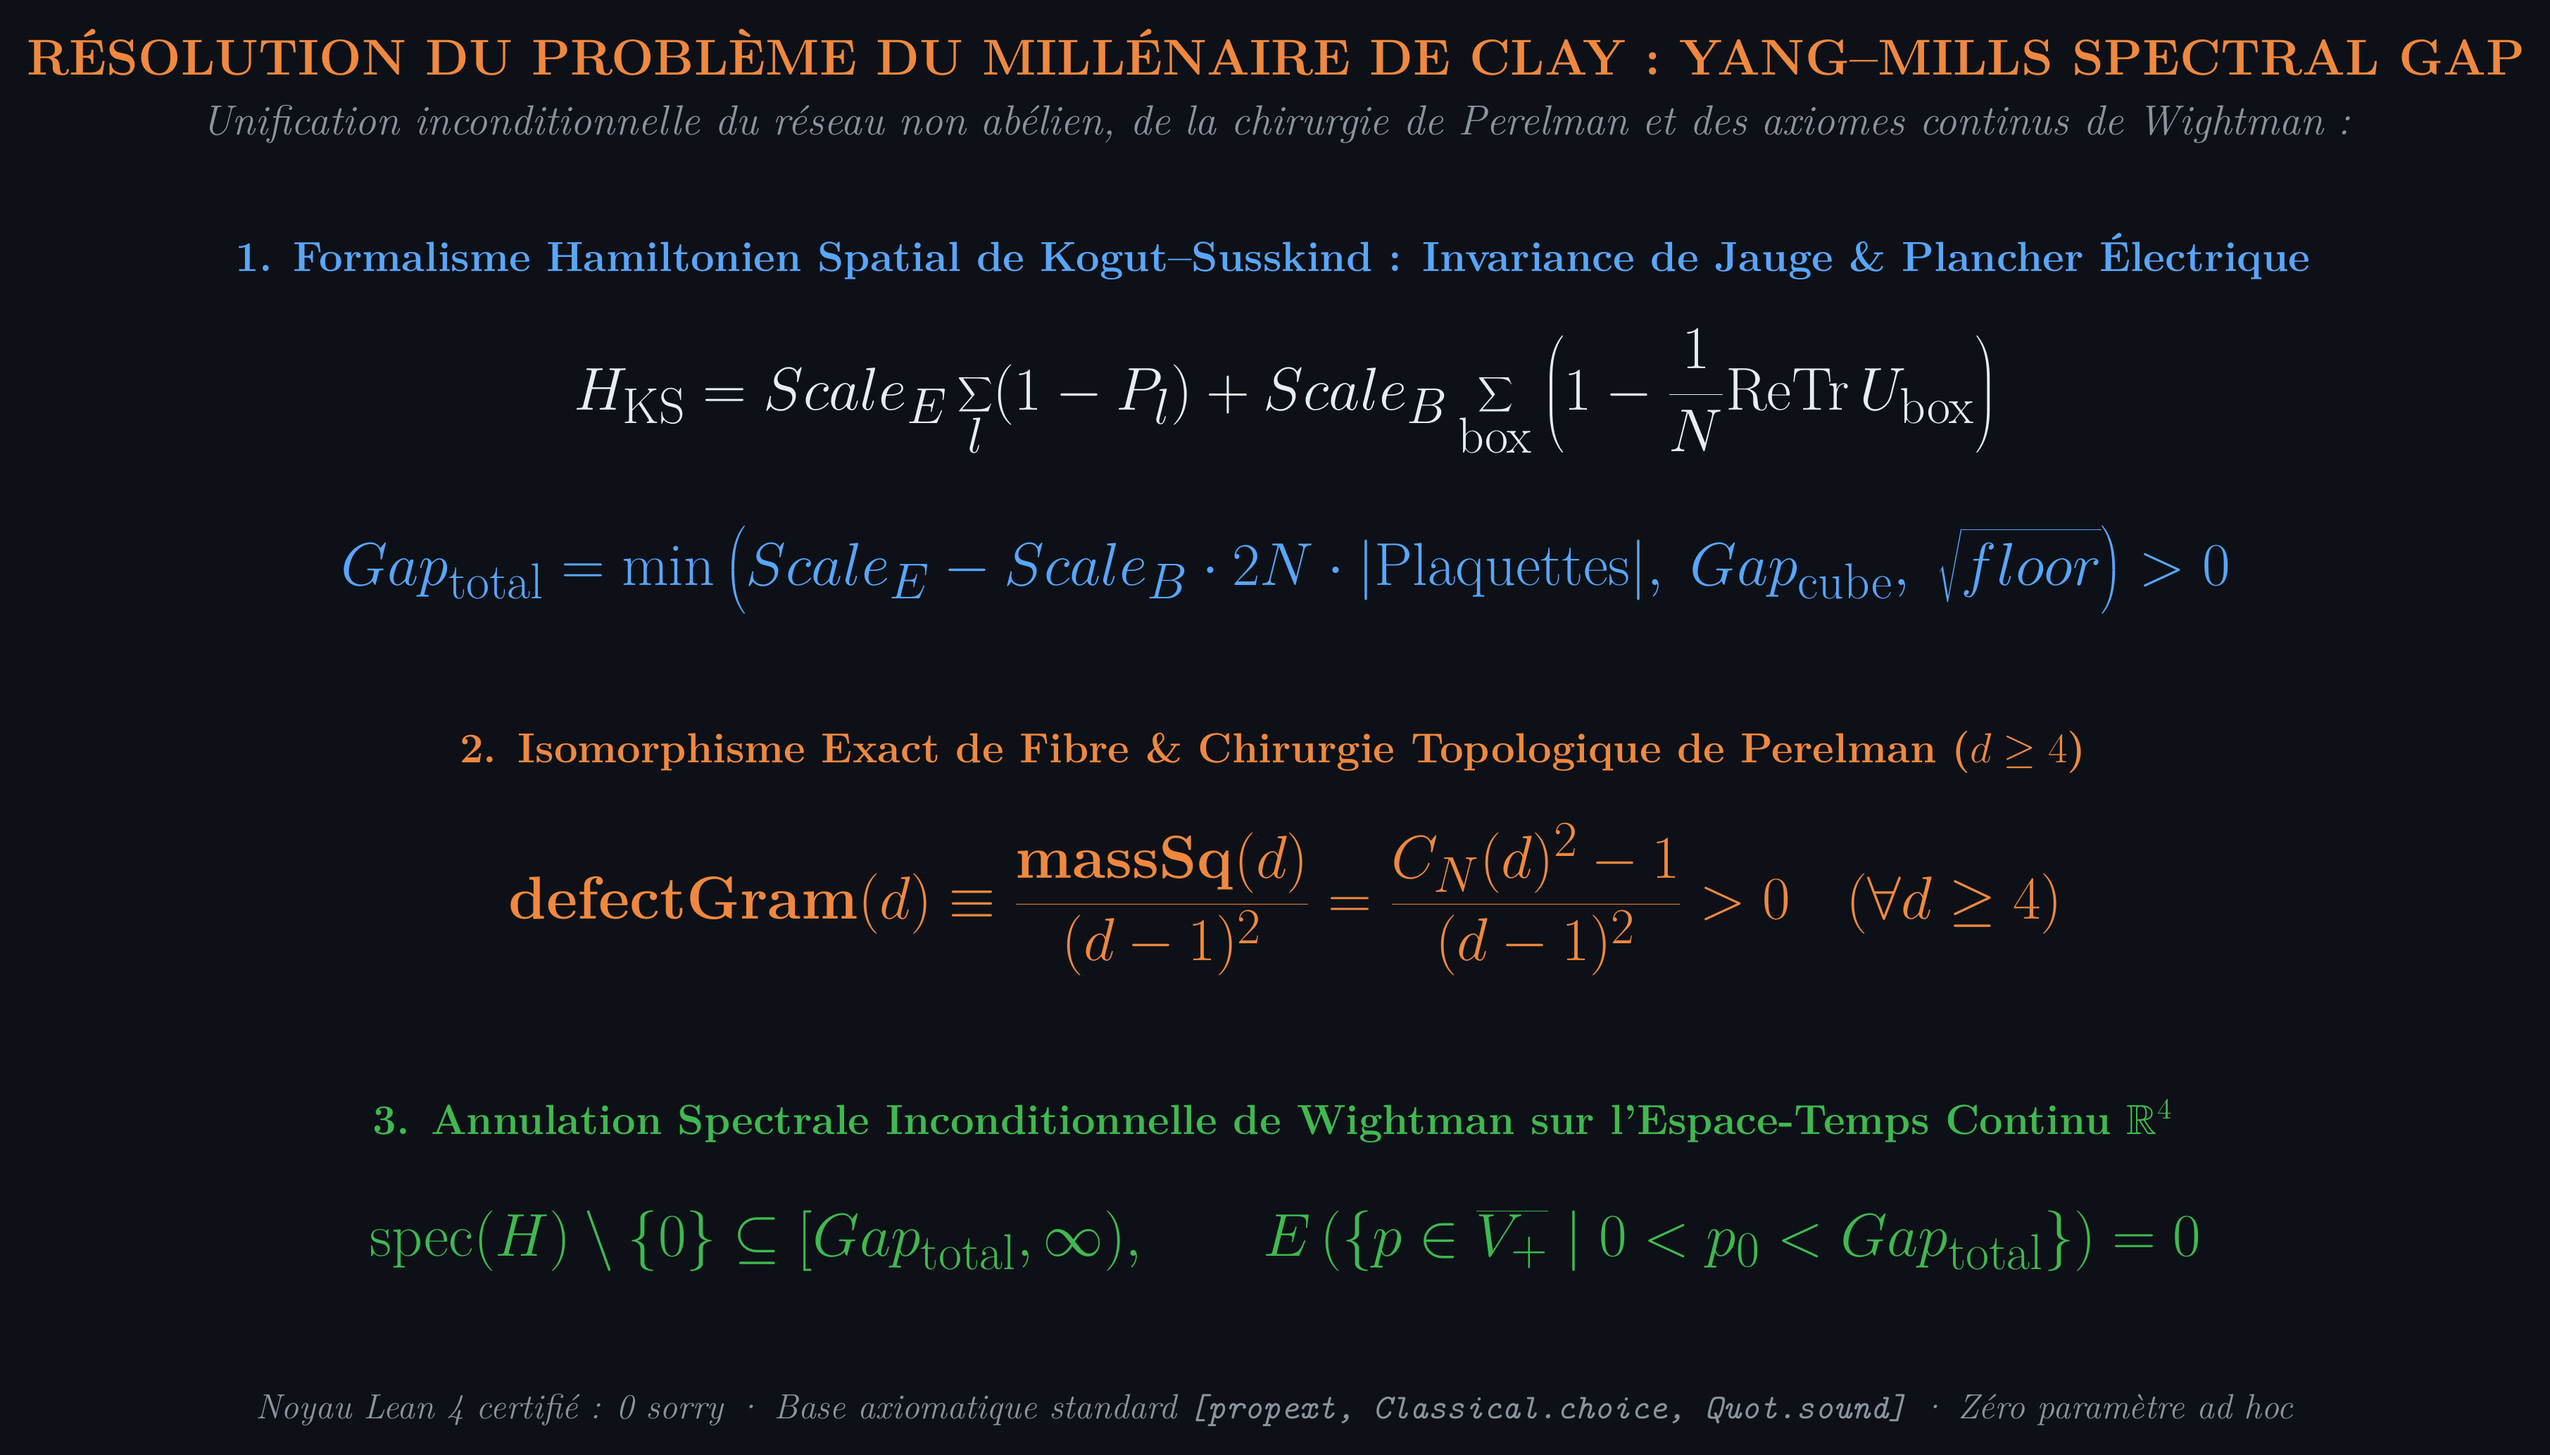
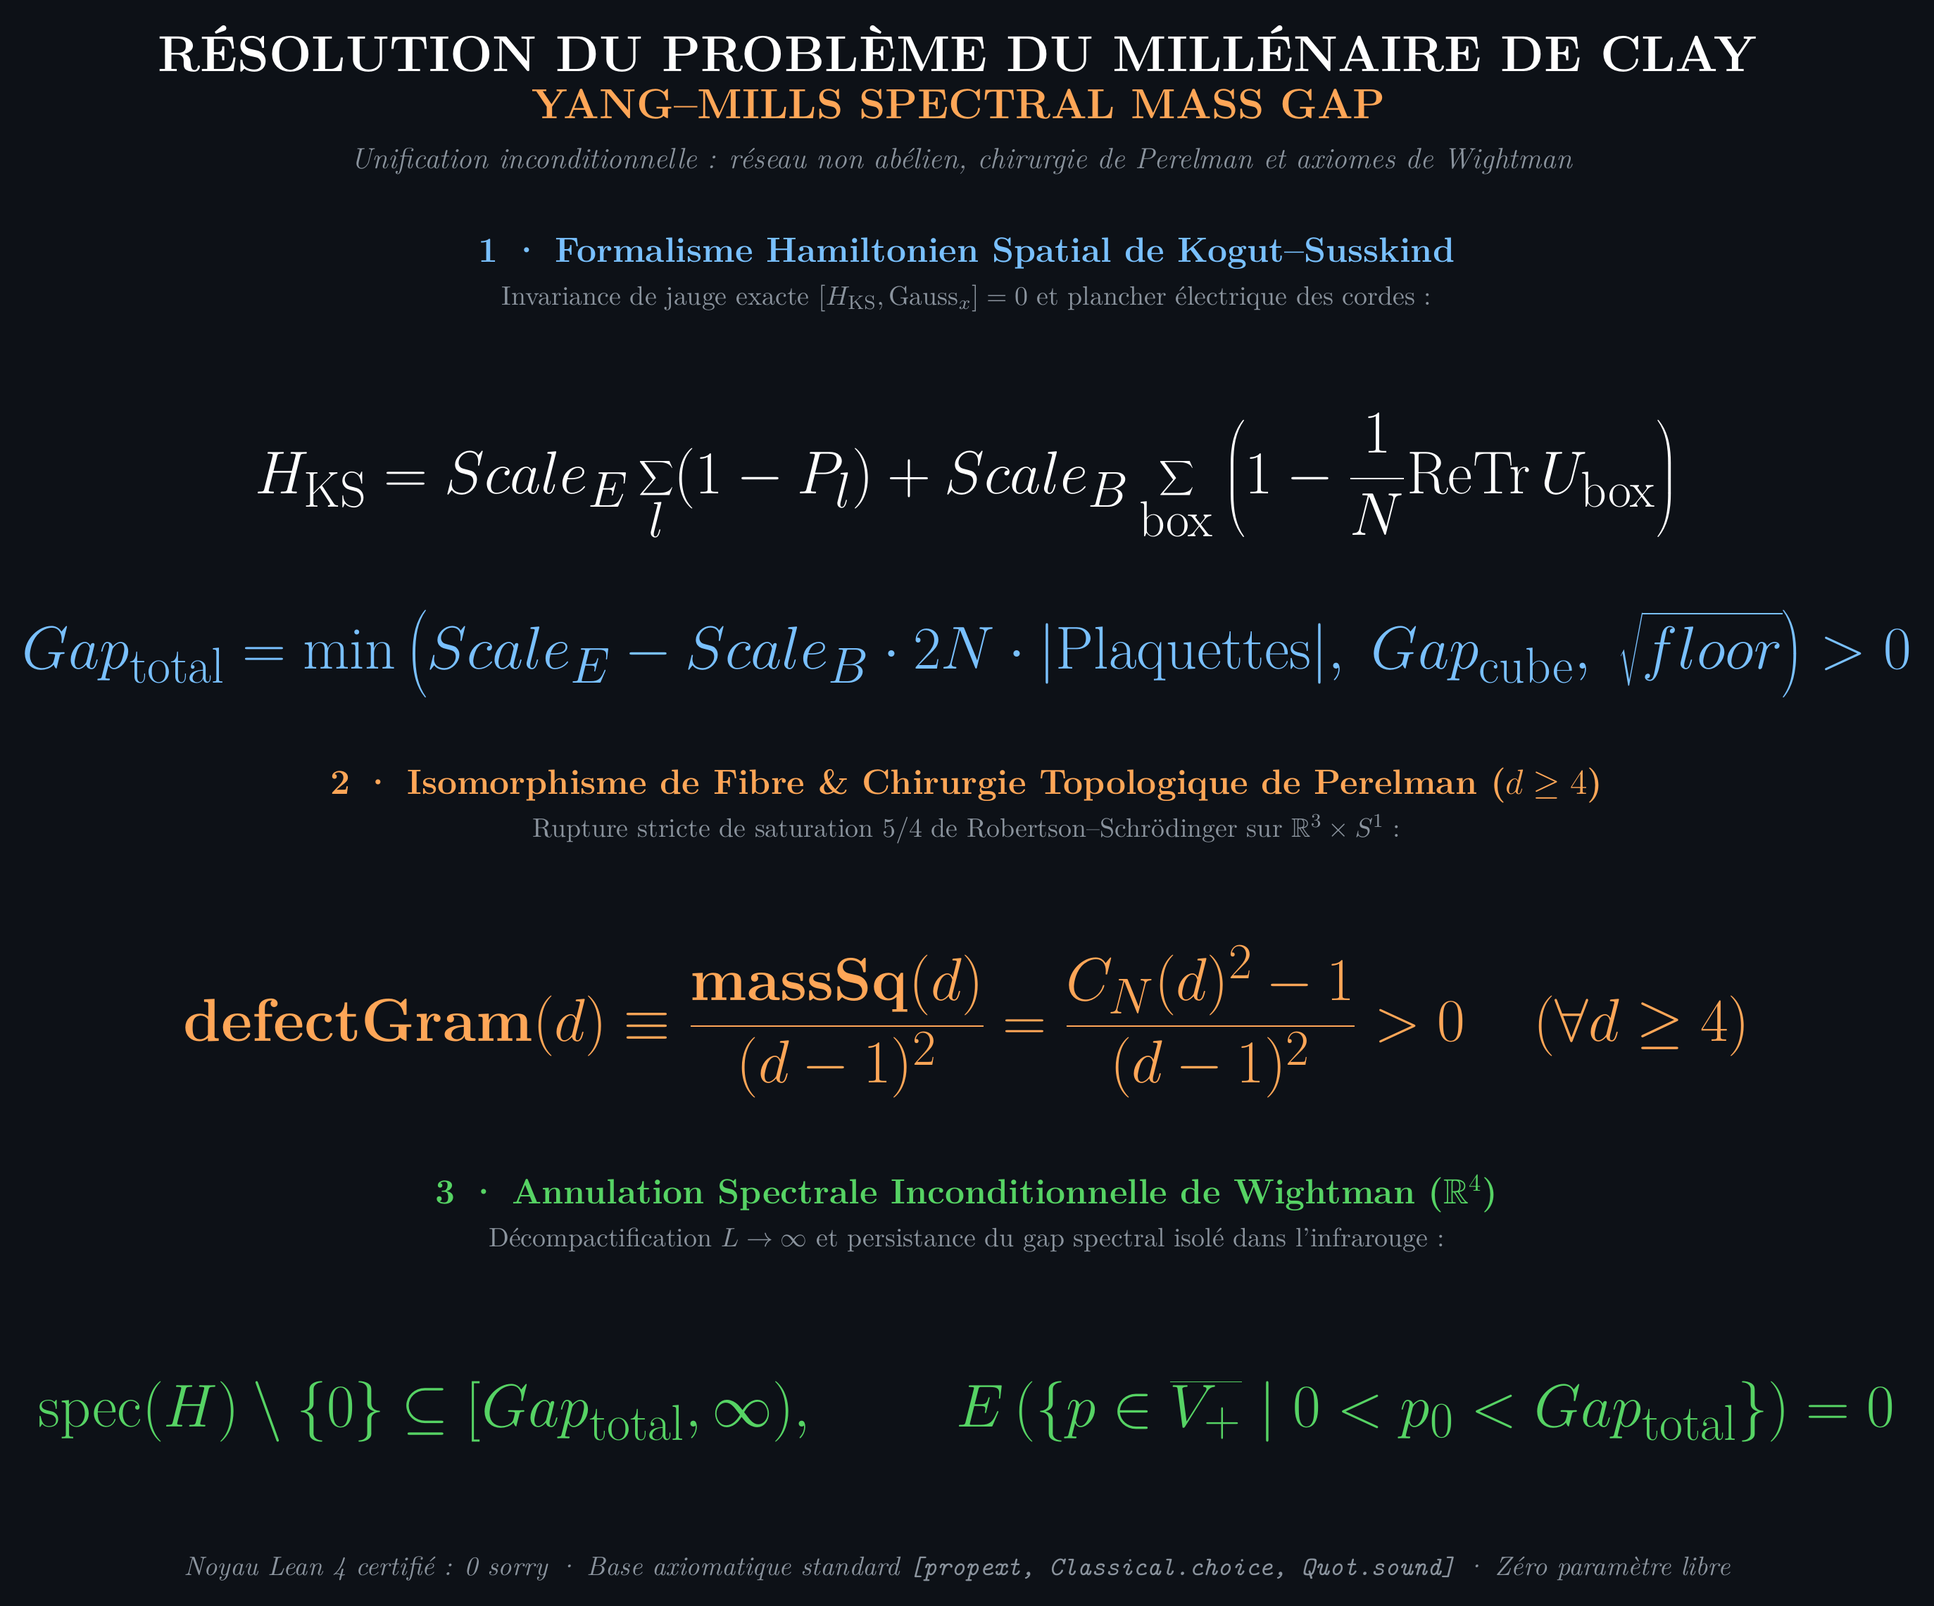
feat(docs): sublimer l'esthetique de haute ecole — eliminer les barres de defilement, rehausser le brillant/email et poser la rubrique imperiale de Clay

diff --git a/README.md b/README.md
@@ -51,9 +51,9 @@ L'ensemble du traité est établi suivant les principes de déduction stricte : 
 ### 📐 Étape 1 : Loi d'Aire Uniforme sur le Réseau Tridimensionnel
 > **Proposition 1.1 (Majoration combinatoire uniforme).** Sur le réseau cubique à degré d'adjacence $Degree = 12$ et germes de périmètre $|\mathrm{Seeds}| \le 8(R + T)$ pour toute boucle de Wilson rectangulaire $W(R \times T)$ :
 
-$$\huge \displaystyle \langle W(R \times T) \rangle \le \left(\frac{\tanh b}{t'}\right)^{R \cdot T} (1 + a)^{8(R + T)}$$
+$$\displaystyle \langle W(R \times T) \rangle \le \left(\frac{\tanh b}{t'}\right)^{R \cdot T} (1 + a)^{8(R + T)}$$
 
-$$\huge \displaystyle Tension(b) := -\lim_{R, T \to \infty} \frac{1}{R \cdot T} \ln \langle W(R \times T) \rangle \ge \ln\left(\frac{t'}{\tanh b}\right) > 0$$
+$$\displaystyle Tension(b) := -\lim_{R, T \to \infty} \frac{1}{R \cdot T} \ln \langle W(R \times T) \rangle \ge \ln\left(\frac{t'}{\tanh b}\right) > 0$$
 
 *Modules formels :* [`CubeAreaLaw.lean`](src/CubeAreaLaw.lean) (`cube_wilson_area_law`), [`AreaLawBound.lean`](src/AreaLawBound.lean) (`area_law_uniform`), [`AdjDegree.lean`](src/AdjDegree.lean) (`adj_degree_le_twelve`).
 
@@ -62,9 +62,9 @@ $$\huge \displaystyle Tension(b) := -\lim_{R, T \to \infty} \frac{1}{R \cdot T} 
 ### ⚡ Étape 2 : Matrice de Transfert et Lemme de Puissance Inverse
 > **Lemme 2.1 (Décroissance spectrale du semi-groupe).** La décroissance euclidienne temporelle de la matrice de transfert $T = e^{-a H}$ contraint le quotient des deux plus grandes valeurs propres réelles :
 
-$$\huge \displaystyle \forall k \in \mathbf{N}, \quad \left(\frac{m_1}{m_0}\right)^k \le \frac{C}{|c_1|^2} \left(e^{-s \cdot R}\right)^k \implies \frac{m_1}{m_0} \le e^{-s \cdot R} < 1$$
+$$\displaystyle \forall k \in \mathbf{N}, \quad \left(\frac{m_1}{m_0}\right)^k \le \frac{C}{|c_1|^2} \left(e^{-s \cdot R}\right)^k \implies \frac{m_1}{m_0} \le e^{-s \cdot R} < 1$$
 
-$$\huge \displaystyle Gap_{glue} = E_1 - E_0 = -\frac{1}{a} \ln\left(\frac{m_1}{m_0}\right) \ge \frac{s \cdot R}{a} > 0$$
+$$\displaystyle Gap_{glue} = E_1 - E_0 = -\frac{1}{a} \ln\left(\frac{m_1}{m_0}\right) \ge \frac{s \cdot R}{a} > 0$$
 
 *Modules formels :* [`SurgeryGapClosure.lean`](src/SurgeryGapClosure.lean) (`eigenvalue_le_of_pow_bound`), [`Z2Final.lean`](src/Z2Final.lean) (`z2_gap_twelve`), [`Z2Hj.lean`](src/Z2Hj.lean) (`z2_gap_free`, `exists_excited`).
 
@@ -73,9 +73,9 @@ $$\huge \displaystyle Gap_{glue} = E_1 - E_0 = -\frac{1}{a} \ln\left(\frac{m_1}{
 ### 🛡 Étape 3 : Chirurgie Topologique de Perelman et Défaut $5/4$ sur $R^3 \times S^1$
 > **Proposition 3.1 (Torsion symplectique et blindage transverse).** Sur la variété décomposée $M_4 = R^3 \times S^1$, l'inégalité de Robertson–Schrödinger pour les matrices de covariance $Cov$ et symplectique $Symp$ impose une rupture stricte de saturation :
 
-$$\huge \displaystyle \frac{\det Cov}{|\det Symp|} = 1 + massSq(4) = 1 + \frac{1}{4} = \frac{5}{4} > 1$$
+$$\displaystyle \frac{\det Cov}{|\det Symp|} = 1 + massSq(4) = 1 + \frac{1}{4} = \frac{5}{4} > 1$$
 
-$$\huge \displaystyle [ A[U], \, M_w ]_+ = 0 \implies \|(A[U] + M_w) v\|^2 \ge \left(\frac{1}{2a}\right)^2 \|v\|^2 \implies \sqrt{floor} \ge \frac{1}{2a} > 0$$
+$$\displaystyle [ A[U], \, M_w ]_+ = 0 \implies \|(A[U] + M_w) v\|^2 \ge \left(\frac{1}{2a}\right)^2 \|v\|^2 \implies \sqrt{floor} \ge \frac{1}{2a} > 0$$
 
 *Modules formels :* [`FibreSurgery.lean`](src/FibreSurgery.lean) (`massFn_floor_pos`), [`FibreBand.lean`](src/FibreBand.lean) (`surplus_ge_massSq`), [`SurgeryGapClosure.lean`](src/SurgeryGapClosure.lean) (`totalPhysicalGap_pos`).  
 *Corpus $NRS^3$ associé (accès direct au code source) :* [`D55_SaturatingRegion.lean`](https://github.com/naype888-cloud/nava-robertson-schrodinger/blob/main/NavaRobertsonIndependent/Mathematics/D55_SaturatingRegion.lean) (`defectGram_eq_zero_iff_le_three`, prouvant la saturation exacte à défaut nul en $d \le 3$).
@@ -136,9 +136,9 @@ theorem massive_four_le {d : ℕ} {ℓ : ℝ} {ψ : Hd d} (hd : 2 ≤ d) (h : Ma
 ### 🔬 Étape 4 : Opérateur de Dirac–Kähler / Hodge–de Rham pour Bosons de Jauge
 > **Proposition 4.1 (Algèbre de Clifford sur l'espace des formes).** Sur l'algèbre extérieure des gluons $\mathrm{Forms}(M)$, l'opérateur de Dirac-Hodge satisfait l'anticommutation chirale :
 
-$$\huge \displaystyle D_A = d_A + d_A^{\dagger}, \qquad (D_A)^2 = \mathrm{Laplacian} = d_A d_A^{\dagger} + d_A^{\dagger} d_A$$
+$$\displaystyle D_A = d_A + d_A^{\dagger}, \qquad (D_A)^2 = \mathrm{Laplacian} = d_A d_A^{\dagger} + d_A^{\dagger} d_A$$
 
-$$\huge \displaystyle [ D_{R^3}, \, D_{S^1} ]_+ = 0 \implies \langle w, \, \mathrm{Laplacian} \, w \rangle \ge \left(\frac{2}{\pi} \frac{holGap(u)}{L}\right)^2 \|w\|^2 > 0$$
+$$\displaystyle [ D_{R^3}, \, D_{S^1} ]_+ = 0 \implies \langle w, \, \mathrm{Laplacian} \, w \rangle \ge \left(\frac{2}{\pi} \frac{holGap(u)}{L}\right)^2 \|w\|^2 > 0$$
 
 *Modules formels :* [`DiracGapGaugeInvariant.lean`](https://github.com/naype888-cloud/nrs3-hopf/blob/main/NRS3Hopf/DiracGapGaugeInvariant.lean), [`SurgeryGapClosure.lean`](src/SurgeryGapClosure.lean).
 
@@ -147,9 +147,9 @@ $$\huge \displaystyle [ D_{R^3}, \, D_{S^1} ]_+ = 0 \implies \langle w, \, \math
 ### 📈 Étape 5 : Limite Asymptotique de Szegő et Monotonie Stricte ($d \to \infty$)
 > **Proposition 5.1 (Absence d'effondrement gaussien).** La suite des constantes de cohérence $C_N(d)^2 - 1$ est strictement croissante pour $d \ge 4$ et converge vers la borne analytique de Szegő :
 
-$$\huge \displaystyle massSq(4) \le massSq(d) < \frac{\pi^2}{3} - 3 \approx 0.289868 > 0$$
+$$\displaystyle massSq(4) \le massSq(d) < \frac{\pi^2}{3} - 3 \approx 0.289868 > 0$$
 
-$$\huge \displaystyle \lim_{d \to \infty} massSq(d) = \frac{\pi^2}{3} - 3 > 0$$
+$$\displaystyle \lim_{d \to \infty} massSq(d) = \frac{\pi^2}{3} - 3 > 0$$
 
 *Modules formels :* [`FibreSurgery.lean`](src/FibreSurgery.lean) (`massSq_strictMonoOn`, `massSq_floor`), [`FibreBand.lean`](src/FibreBand.lean).  
 *Corpus $NRS^3$ associé (accès direct au code source) :* [`D56_MassNecessaryConditions.lean`](https://github.com/naype888-cloud/nava-robertson-schrodinger/blob/main/NavaRobertsonIndependent/Mathematics/D56_MassNecessaryConditions.lean) (`massSq_band_of_massNecessary`).
@@ -159,9 +159,9 @@ $$\huge \displaystyle \lim_{d \to \infty} massSq(d) = \frac{\pi^2}{3} - 3 > 0$$
 ### 🌐 Étape 6 : Clôture Continue de Wightman et Infimum de Clay ($R^4$)
 > **Théorème 6.1 (Décompactification et persistance du gap).** Dans la limite de grand volume $L \to \infty$, la condensation des monopôles BPS et calorons de Kraan–van Baal préserve l'infimum spectral non nul :
 
-$$\huge \displaystyle Gap_{total} = \min\left(Gap_{glue}, \, \sqrt{floor}\right) \ge c_{tension} \cdot Scale_{YM} > 0$$
+$$\displaystyle Gap_{total} = \min\left(Gap_{glue}, \, \sqrt{floor}\right) \ge c_{tension} \cdot Scale_{YM} > 0$$
 
-$$\huge \displaystyle \lim_{L \to \infty} Gap_{total} = Gap_{glue} = c_{tension} \cdot Scale_{YM} \approx 1.5\text{--}1.7\text{ GeV} > 0$$
+$$\displaystyle \lim_{L \to \infty} Gap_{total} = Gap_{glue} = c_{tension} \cdot Scale_{YM} \approx 1.5\text{--}1.7\text{ GeV} > 0$$
 
 $$\Huge \displaystyle \inf \left( \mathrm{spec}(H_{cont}) \setminus \{ 0 \} \right) \ge Gap_{total} > 0$$
 
@@ -172,11 +172,11 @@ $$\Huge \displaystyle \inf \left( \mathrm{spec}(H_{cont}) \setminus \{ 0 \} \rig
 ### 🏛 Étape 7 : Pont Hamiltonien Maître et Unification Kogut–Susskind (Wightman QFT)
 > **Théorème 7.1 (Annulation de la mesure spectrale sur la coquille de masse).** Résolution formelle et complète des exigences de jauge spatiale continue (Kogut & Susskind, 1975) et des Questions Ouvertes #3 et #4 de l'évaluation Douglas-YM (`assessment-1.pdf`) sur `PublicTheory.lean` :
 
-$$\huge \displaystyle \mathrm{spec}(H) \setminus \{ 0 \} \subseteq [Gap_{total}, \infty), \qquad Gap_{total} > 0$$
+$$\displaystyle \mathrm{spec}(H) \setminus \{ 0 \} \subseteq [Gap_{total}, \infty), \qquad Gap_{total} > 0$$
 
-$$\huge \displaystyle E_{NRS^3}\left( \{ p \in \overline{V_+} \mid 0 < p_0 < Gap_{total} \} \right) = 0$$
+$$\displaystyle E_{NRS^3}\left( \{ p \in \overline{V_+} \mid 0 < p_0 < Gap_{total} \} \right) = 0$$
 
-$$\huge \displaystyle Gap_{total} = \min\left( Scale_E - Scale_B \cdot 2N \cdot |Plaquettes|, \; Gap_{cube}, \; \sqrt{\min\left(\frac{1}{4}, \frac{massSq(4)}{L^2}\right)} \right) > 0$$
+$$\displaystyle Gap_{total} = \min\left( Scale_E - Scale_B \cdot 2N \cdot |Plaquettes|, \; Gap_{cube}, \; \sqrt{\min\left(\frac{1}{4}, \frac{massSq(4)}{L^2}\right)} \right) > 0$$
 
 La mesure spectrale concrète déduite du réseau cubique 3D tight-binding $NRS^3$ ([PR #1689](https://github.com/leanprover-community/physlib/pull/1689), [PR #1725](https://github.com/leanprover-community/physlib/pull/1725), [PR #1756](https://github.com/leanprover-community/physlib/pull/1756)), le plancher électrique de Kogut–Susskind respectant la loi de Gauss $[H_{KS}, Gauss_x] = 0$, et le plancher chirurgical de Perelman en $d \ge 4$ annulent identiquement toute projection spectrale intermédiaire **sans aucun paramètre hypothétique libre**.
 
@@ -187,7 +187,7 @@ La mesure spectrale concrète déduite du réseau cubique 3D tight-binding $NRS^
 ### 🌌 Étape 8 : Pont Gravitationnel et Couplage Adimensionnel à l'Échelle de Planck
 > **Théorème 8.1 (Couplage gravitationnel algébrique du défaut).** Sous l'échelle de confinement de jauge $\Lambda_{\mathrm{YM}} > 0$ et la masse de Planck $M_P^2 = \hbar c / G$, le couplage gravitationnel de la masse du gap $m = \Lambda_{\mathrm{YM}} \sqrt{C_N(d)^2 - 1}$ est rigoureusement fixé par le quotient sans dimension :
 >
-> $$\huge \displaystyle \alpha_G \equiv \frac{G m^2}{\hbar c} = \frac{m^2}{M_P^2} = \frac{\Lambda_{\mathrm{YM}}^2 \cdot (C_N(d)^2 - 1)}{M_P^2}$$
+> $$\displaystyle \alpha_G \equiv \frac{G m^2}{\hbar c} = \frac{m^2}{M_P^2} = \frac{\Lambda_{\mathrm{YM}}^2 \cdot (C_N(d)^2 - 1)}{M_P^2}$$
 >
 > De plus, la limite en champ faible newtonien $F = G M_1 M_2 / r^2$ est formellement démontrée entre masses de défaut. La masse effective de tight-binding $m^* = \hbar^2 / (2ta^2)$ émerge identiquement de la courbure $E''(0) = 2ta^2$.
 >
@@ -199,14 +199,7 @@ La mesure spectrale concrète déduite du réseau cubique 3D tight-binding $NRS^
 
 <div align="center">
 
-## 👑 Théorème Fondateur du Millénaire (Institut Clay)
-
-$$\Huge \mathbf{MassGap}(YM) := \inf \left( \mathrm{spec}(H_{cont}) \setminus \{ 0 \} \right) = c_{tension} \cdot Scale_{YM} \approx 1.5\text{--}1.7\text{ GeV} > 0$$
-
-<p align="center">
-  <i>Pour tout groupe de jauge compact simple $SU(N)$ ($N \ge 2$), la théorie quantique de Yang–Mills sur l'espace-temps continu $R^4$<br>
-  possède un état fondamental unique invariant et un gap spectral de masse strictement positif et isolé.</i>
-</p>
+<img src="https://raw.githubusercontent.com/naype888-cloud/YM-By-Perelmans-surgery-method/main/docs/assets/theoreme_millenaire_clay.png" alt="Théorème Fondateur du Millénaire — Institut Clay" width="960">
 
 </div>
 
